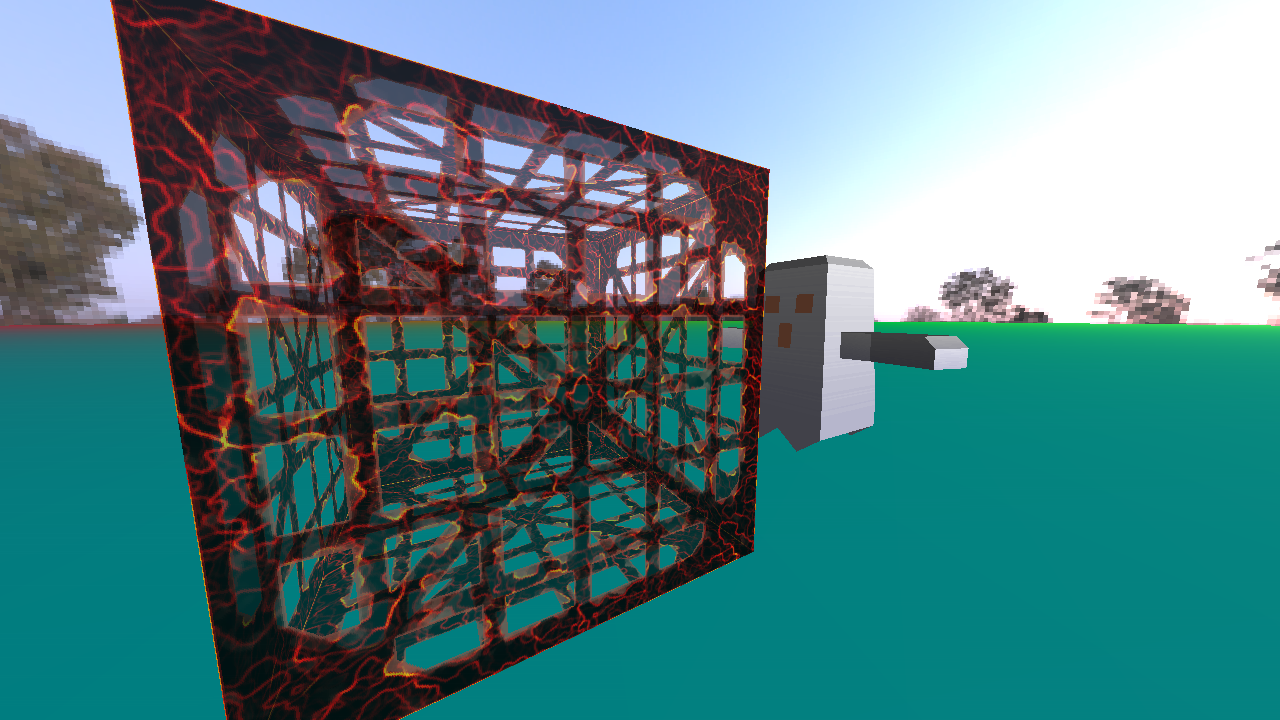
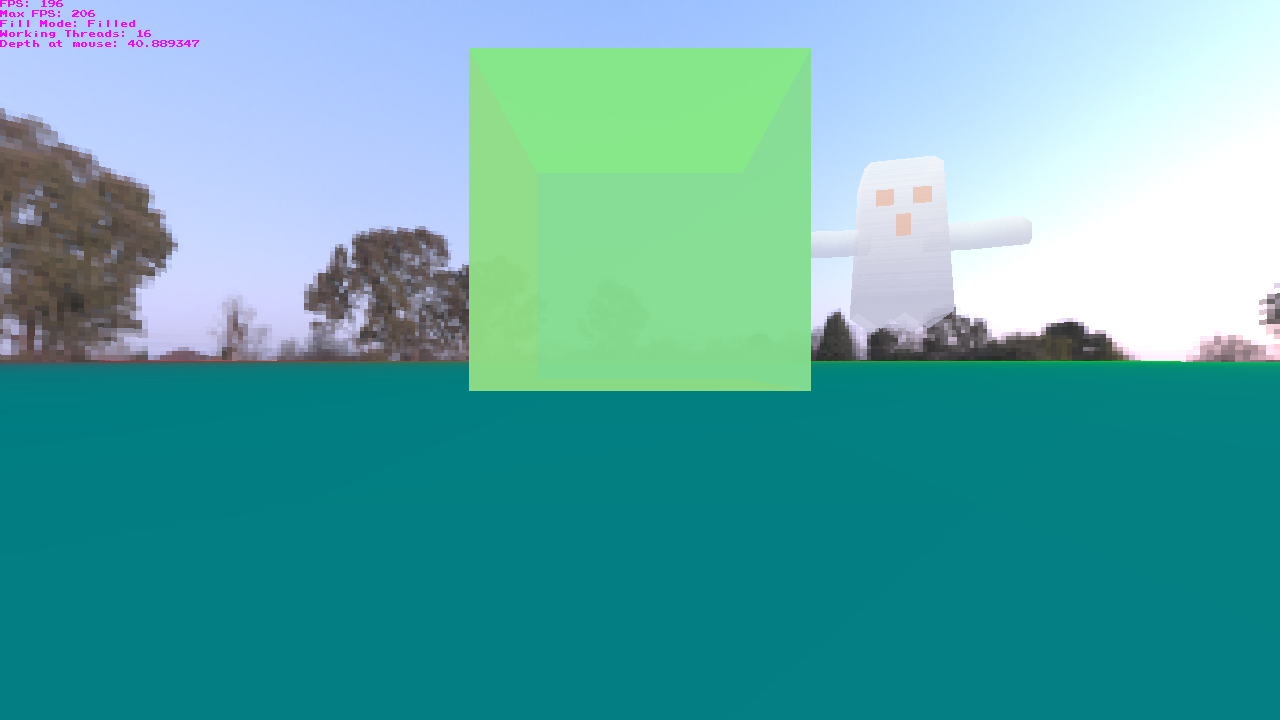
code clean

diff --git a/GameSoftware3D.h b/GameSoftware3D.h
@@ -959,6 +959,7 @@ namespace game
 						}
 
 						// alpha blending
+						float_t aFinal = aSource;
 						if (_enableAlphaBlend) 
 						{
 							uint32_t dest = *colorBuffer;
@@ -971,21 +972,15 @@ namespace game
 							
 							// fg.R * fg.A / r.A + bg.R * bg.A * (1 - fg.A) / r.A;
 							float_t adnewa = aSource / aFinal;
-							float_t da1minadnewa = aDest * (1.0f - aSource) / aFinal;
+							float_t da1minadnewa = aDest * (1.0f - adnewa);// aSource) / aFinal;
 							//rd = rd * ad / newa + dr * da * (1.0f - ad) / newa;
 							//gd = gd * ad / newa + dg * da * (1.0f - ad) / newa;
 							//bd = bd * ad / newa + db * da * (1.0f - ad) / newa;
 							rSource = rSource * adnewa + rDest * da1minadnewa;
 							gSource = gSource * adnewa + gDest * da1minadnewa;
 							bSource = bSource * adnewa + bDest * da1minadnewa;
-							colorAtPixel.Set(rSource, gSource, bSource, aFinal);
 						}
-						else
-						{
-							colorAtPixel.Set(rSource, gSource, bSource, aSource);
-						}
-						
-						*colorBuffer = colorAtPixel.packedABGR;
+						*colorBuffer = (uint32_t(aFinal * 255) << 24) | (uint32_t(bSource * 255) << 16) | (uint32_t(gSource * 255) << 8) | uint32_t(rSource * 255); colorAtPixel.packedABGR;
 					}
 
 					
@@ -1044,22 +1039,17 @@ namespace game
 							aColorParam.stepX(aEval);
 						}
 
-
-						//rSource = min(rEval * oneOverDepthEval, 1.0f);
-						//gSource = min(gEval * oneOverDepthEval, 1.0f);
-						//bSource = min(bEval * oneOverDepthEval, 1.0f);
-						//aSource = min(aEval * oneOverDepthEval, 1.0f);
-
 						rSource = ((colorAtPixel.packedABGR >> 0) & 0xFF) * colorAtPixel.oneOver255;
 						gSource = ((colorAtPixel.packedABGR >> 8) & 0xFF) * colorAtPixel.oneOver255;
 						bSource = ((colorAtPixel.packedABGR >> 16) & 0xFF) * colorAtPixel.oneOver255;
 						aSource = ((colorAtPixel.packedABGR >> 24) & 0xFF) * colorAtPixel.oneOver255;
 
 
-						rSource = ((rSource * min(rEval * oneOverDepthEval, 1.0f)));// * 0.5f);
-						gSource = ((gSource * min(gEval * oneOverDepthEval, 1.0f)));// * 0.5f);
-						bSource = ((bSource * min(bEval * oneOverDepthEval, 1.0f)));// * 0.5f);
-						aSource = ((aSource * min(aEval * oneOverDepthEval, 1.0f)));// * 0.5f);
+						// Apply color tint
+						rSource = ((rSource * min(rEval * oneOverDepthEval, 1.0f)));
+						gSource = ((gSource * min(gEval * oneOverDepthEval, 1.0f)));
+						bSource = ((bSource * min(bEval * oneOverDepthEval, 1.0f)));
+						aSource = ((aSource * min(aEval * oneOverDepthEval, 1.0f)));
 
 						// texture lighting
 						if (lighting)
@@ -1068,27 +1058,19 @@ namespace game
 							rSource *= luminance;
 							gSource *= luminance;
 							bSource *= luminance;
-							//gc = (uint32_t)(gc * luminance);
-							//bc = (uint32_t)(bc * luminance);
-
-							//colorAtPixel.packedABGR = ((ac << 24) | (bc << 16) | (gc << 8) | (rc));
 						}
 
 
-						float_t aFinal = 1.0f;
+						float_t aFinal = aSource; 
 						if (_enableAlphaBlend) 
 						{
 							uint32_t dest = *colorBuffer;
 							// extract dest
-
 							float_t rDest = ((dest >> 0) & 0xFF) * colorAtPixel.oneOver255;
 							float_t gDest = ((dest >> 8) & 0xFF) * colorAtPixel.oneOver255;
 							float_t bDest = ((dest >> 16) & 0xFF) * colorAtPixel.oneOver255;
 							float_t aDest = ((dest >> 24) & 0xFF) * colorAtPixel.oneOver255;
-							//rSource = ((colorAtPixel.packedABGR >> 0) & 0xFF) * colorAtPixel.oneOver255;
-							//gSource = ((colorAtPixel.packedABGR >> 8) & 0xFF) * colorAtPixel.oneOver255;
-							//bSource = ((colorAtPixel.packedABGR >> 16) & 0xFF) * colorAtPixel.oneOver255;
-							//aSource = ((colorAtPixel.packedABGR >> 24) & 0xFF) * colorAtPixel.oneOver255;
+
 							aFinal = 1.0f - (1.0f - aSource) * (1.0f - aDest);
 							// fg.R * fg.A / r.A + bg.R * bg.A * (1 - fg.A) / r.A;
 							float_t adnewa = aSource / aFinal;
@@ -1100,26 +1082,18 @@ namespace game
 							gSource = gSource * adnewa + gDest * da1minadnewa;
 							bSource = bSource * adnewa + bDest * da1minadnewa;
 						}
-						colorAtPixel.Set(rSource, gSource, bSource, aFinal);
-						
-
-						//if (!lighting)
-						//{
-						*colorBuffer = colorAtPixel.packedABGR;// color;// _currentTexture.data[ty * _currentTexture.size.width + tx];
-						//}
+						*colorBuffer = (uint32_t(aFinal * 255)<< 24) | (uint32_t(bSource * 255) << 16) | (uint32_t(gSource * 255) << 8) | uint32_t(rSource * 255);// colorAtPixel.packedABGR;// color;// _currentTexture.data[ty * _currentTexture.size.width + tx];
 					}
 				}
 				++colorBuffer;
 				++depthBufferPtr;
 			}
 			depthParam.first = 1;
-			//if (!textured)
-			//{
-				rColorParam.first = 1;
-				gColorParam.first = 1;
-				bColorParam.first = 1;
-				aColorParam.first = 1;
-			//}
+
+			rColorParam.first = 1;
+			gColorParam.first = 1;
+			bColorParam.first = 1;
+			aColorParam.first = 1;
 			if (textured)
 			{
 				uParam.first = 1;

diff --git a/Main.cpp b/Main.cpp
@@ -241,31 +241,31 @@ public:
 
 		alphaCube.SetTranslation(-0.0f, -0.41f, 0.0f);
 		alphaCube.SetScale(0.5f, 0.5f, 0.5f);
-		//game::Color col(1.0f, 0.0f, 0.0f, 0.5f);
-		//game::Color col2(0.0f, 1.0f, 0.0f, 0.5f);
-		//game::Color col3(0.0f, 0.0f, 1.0f, 0.5f);
-		//game::Color set = col;
-		//uint32_t ct = 0;
-		//for (uint32_t i = 0; i < alphaCube.tris.size(); i++)
-		//{			
-		//	alphaCube.tris[i].color[0] = set;
-		//	alphaCube.tris[i].color[1] = set;
-		//	alphaCube.tris[i].color[2] = set;
-		//	//ct++;
-		//	//ct %= 3;
-		//	//if (ct == 0)
-		//	//{
-		//	//	set = col;
-		//	//}
-		//	//if (ct == 1)
-		//	//{
-		//	//	set = col2;
-		//	//}
-		//	//if (ct == 2)
-		//	//{
-		//	//	set = col3;
-		//	//}
-		//}
+		game::Color col(1.0f, 0.0f, 0.0f, 0.5f);
+		game::Color col2(0.0f, 1.0f, 0.0f, 0.5f);
+		game::Color col3(0.0f, 0.0f, 1.0f, 0.5f);
+		game::Color set = col;
+		uint32_t ct = 0;
+		for (uint32_t i = 0; i < alphaCube.tris.size(); i++)
+		{			
+			alphaCube.tris[i].color[0] = set;
+			alphaCube.tris[i].color[1] = set;
+			alphaCube.tris[i].color[2] = set;
+			ct++;
+			ct %= 3;
+			if (ct == 0)
+			{
+				set = col;
+			}
+			if (ct == 1)
+			{
+				set = col2;
+			}
+			if (ct == 2)
+			{
+				set = col3;
+			}
+		}
 
 		model.SetRotation(3.14159f / 2.0f, 3.14159f, 0.0f);
 		model.SetTranslation(1.0f, 0.0f, 0.0f);
@@ -404,7 +404,7 @@ public:
 
 		geClear(GAME_FRAME_BUFFER_BIT, game::Colors::Blue);
 
-		pixelMode.Clear(game::Colors::White);
+		pixelMode.Clear(game::Colors::Black);
 		software3D.ClearDepth(100.0f);
 
 		torus.SetRotation(rotation, -rotation, rotation - 3.14156f / 2.0f);
@@ -440,30 +440,34 @@ public:
 
 		software3D.SetState(GAME_SOFTWARE3D_BACKFACECULL, true);
 		software3D.SetState(GAME_SOFTWARE3D_TEXTURE, true);
-		//sky.GenerateModelMatrix();
+		sky.GenerateModelMatrix();
 		software3D.RenderMesh(sky, mvpMat, camera, clip); 
 
 
 		software3D.SetState(GAME_SOFTWARE3D_LIGHTING, true);
-		software3D.SetState(GAME_SOFTWARE3D_LIGHTING_TYPE, game::LightingType::Vertex);
-		software3D.RenderMesh(torus, mvpMat, camera, clip); 
+		//software3D.SetState(GAME_SOFTWARE3D_LIGHTING_TYPE, game::LightingType::Vertex);
+		//software3D.RenderMesh(torus, mvpMat, camera, clip); 
 
 		
-		software3D.SetState(GAME_SOFTWARE3D_LIGHTING_TYPE, game::LightingType::Face);
+		//software3D.SetState(GAME_SOFTWARE3D_LIGHTING_TYPE, game::LightingType::Face);
 		software3D.SetState(GAME_SOFTWARE3D_ALPHA_TEST, true);
 		software3D.SetState(GAME_SOFTWARE3D_ALPHA_TEST_VALUE, 128);
 		software3D.SetState(GAME_SOFTWARE3D_BACKFACECULL, false);
+		software3D.SetState(GAME_SOFTWARE3D_TEXTURE, false);
 		//software3D.SetState(GAME_SOFTWARE3D_LIGHTING, false);
+		software3D.SetState(GAME_SOFTWARE3D_ALPHA_BLEND, true);
+		software3D.SetState(GAME_SOFTWARE3D_SORT, game::SortingType::BackToFront);
+		software3D.SetState(GAME_SOFTWARE3D_LIGHTING, false);
 		software3D.RenderMesh(alphaCube, mvpMat, camera, clip);
+		software3D.SetState(GAME_SOFTWARE3D_TEXTURE, true);
 
 		
-		software3D.SetState(GAME_SOFTWARE3D_LIGHTING, false);
+
 		software3D.SetState(GAME_SOFTWARE3D_DEPTH_WRITE, false);
-		//software3D.SetState(GAME_SOFTWARE3D_ALPHA_TEST, false);
-		software3D.SetState(GAME_SOFTWARE3D_SORT, game::SortingType::BackToFront);
 		software3D.SetState(GAME_SOFTWARE3D_ALPHA_BLEND, true);
-		//software3D.RenderMesh(model, mvpMat, camera, clip); 
-		software3D.RenderMesh(particle1, mvpMat, camera, clip);
+		software3D.SetState(GAME_SOFTWARE3D_ALPHA_TEST, false);
+		software3D.RenderMesh(model, mvpMat, camera, clip); 
+		//software3D.RenderMesh(particle1, mvpMat, camera, clip);
 
 
 
